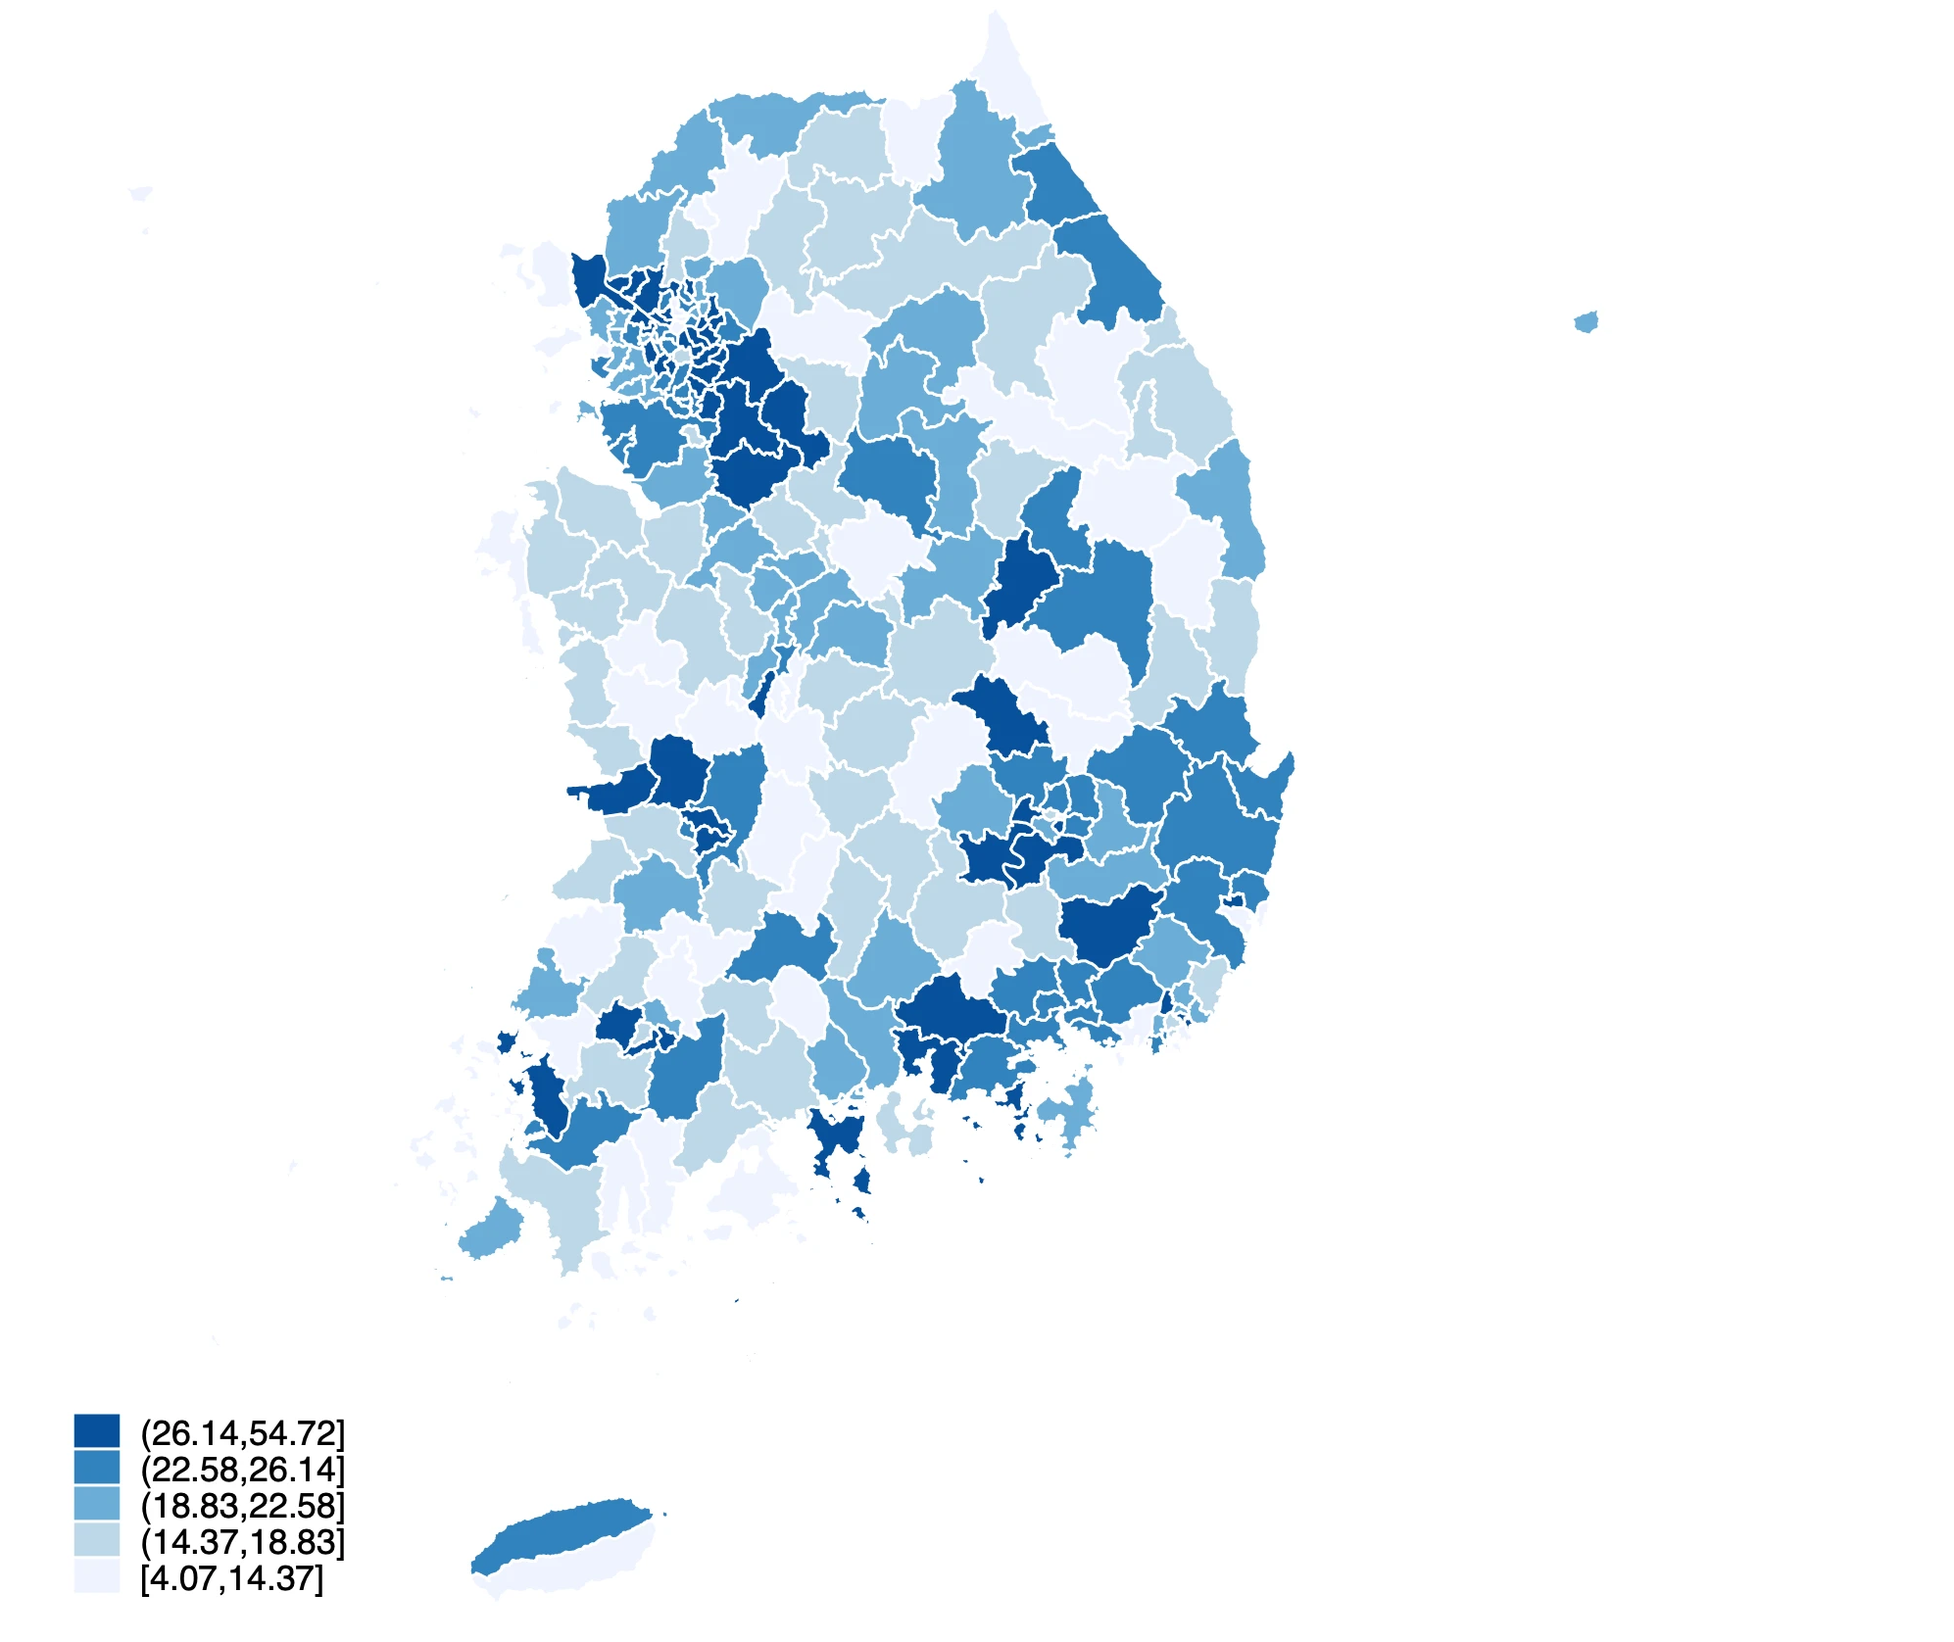
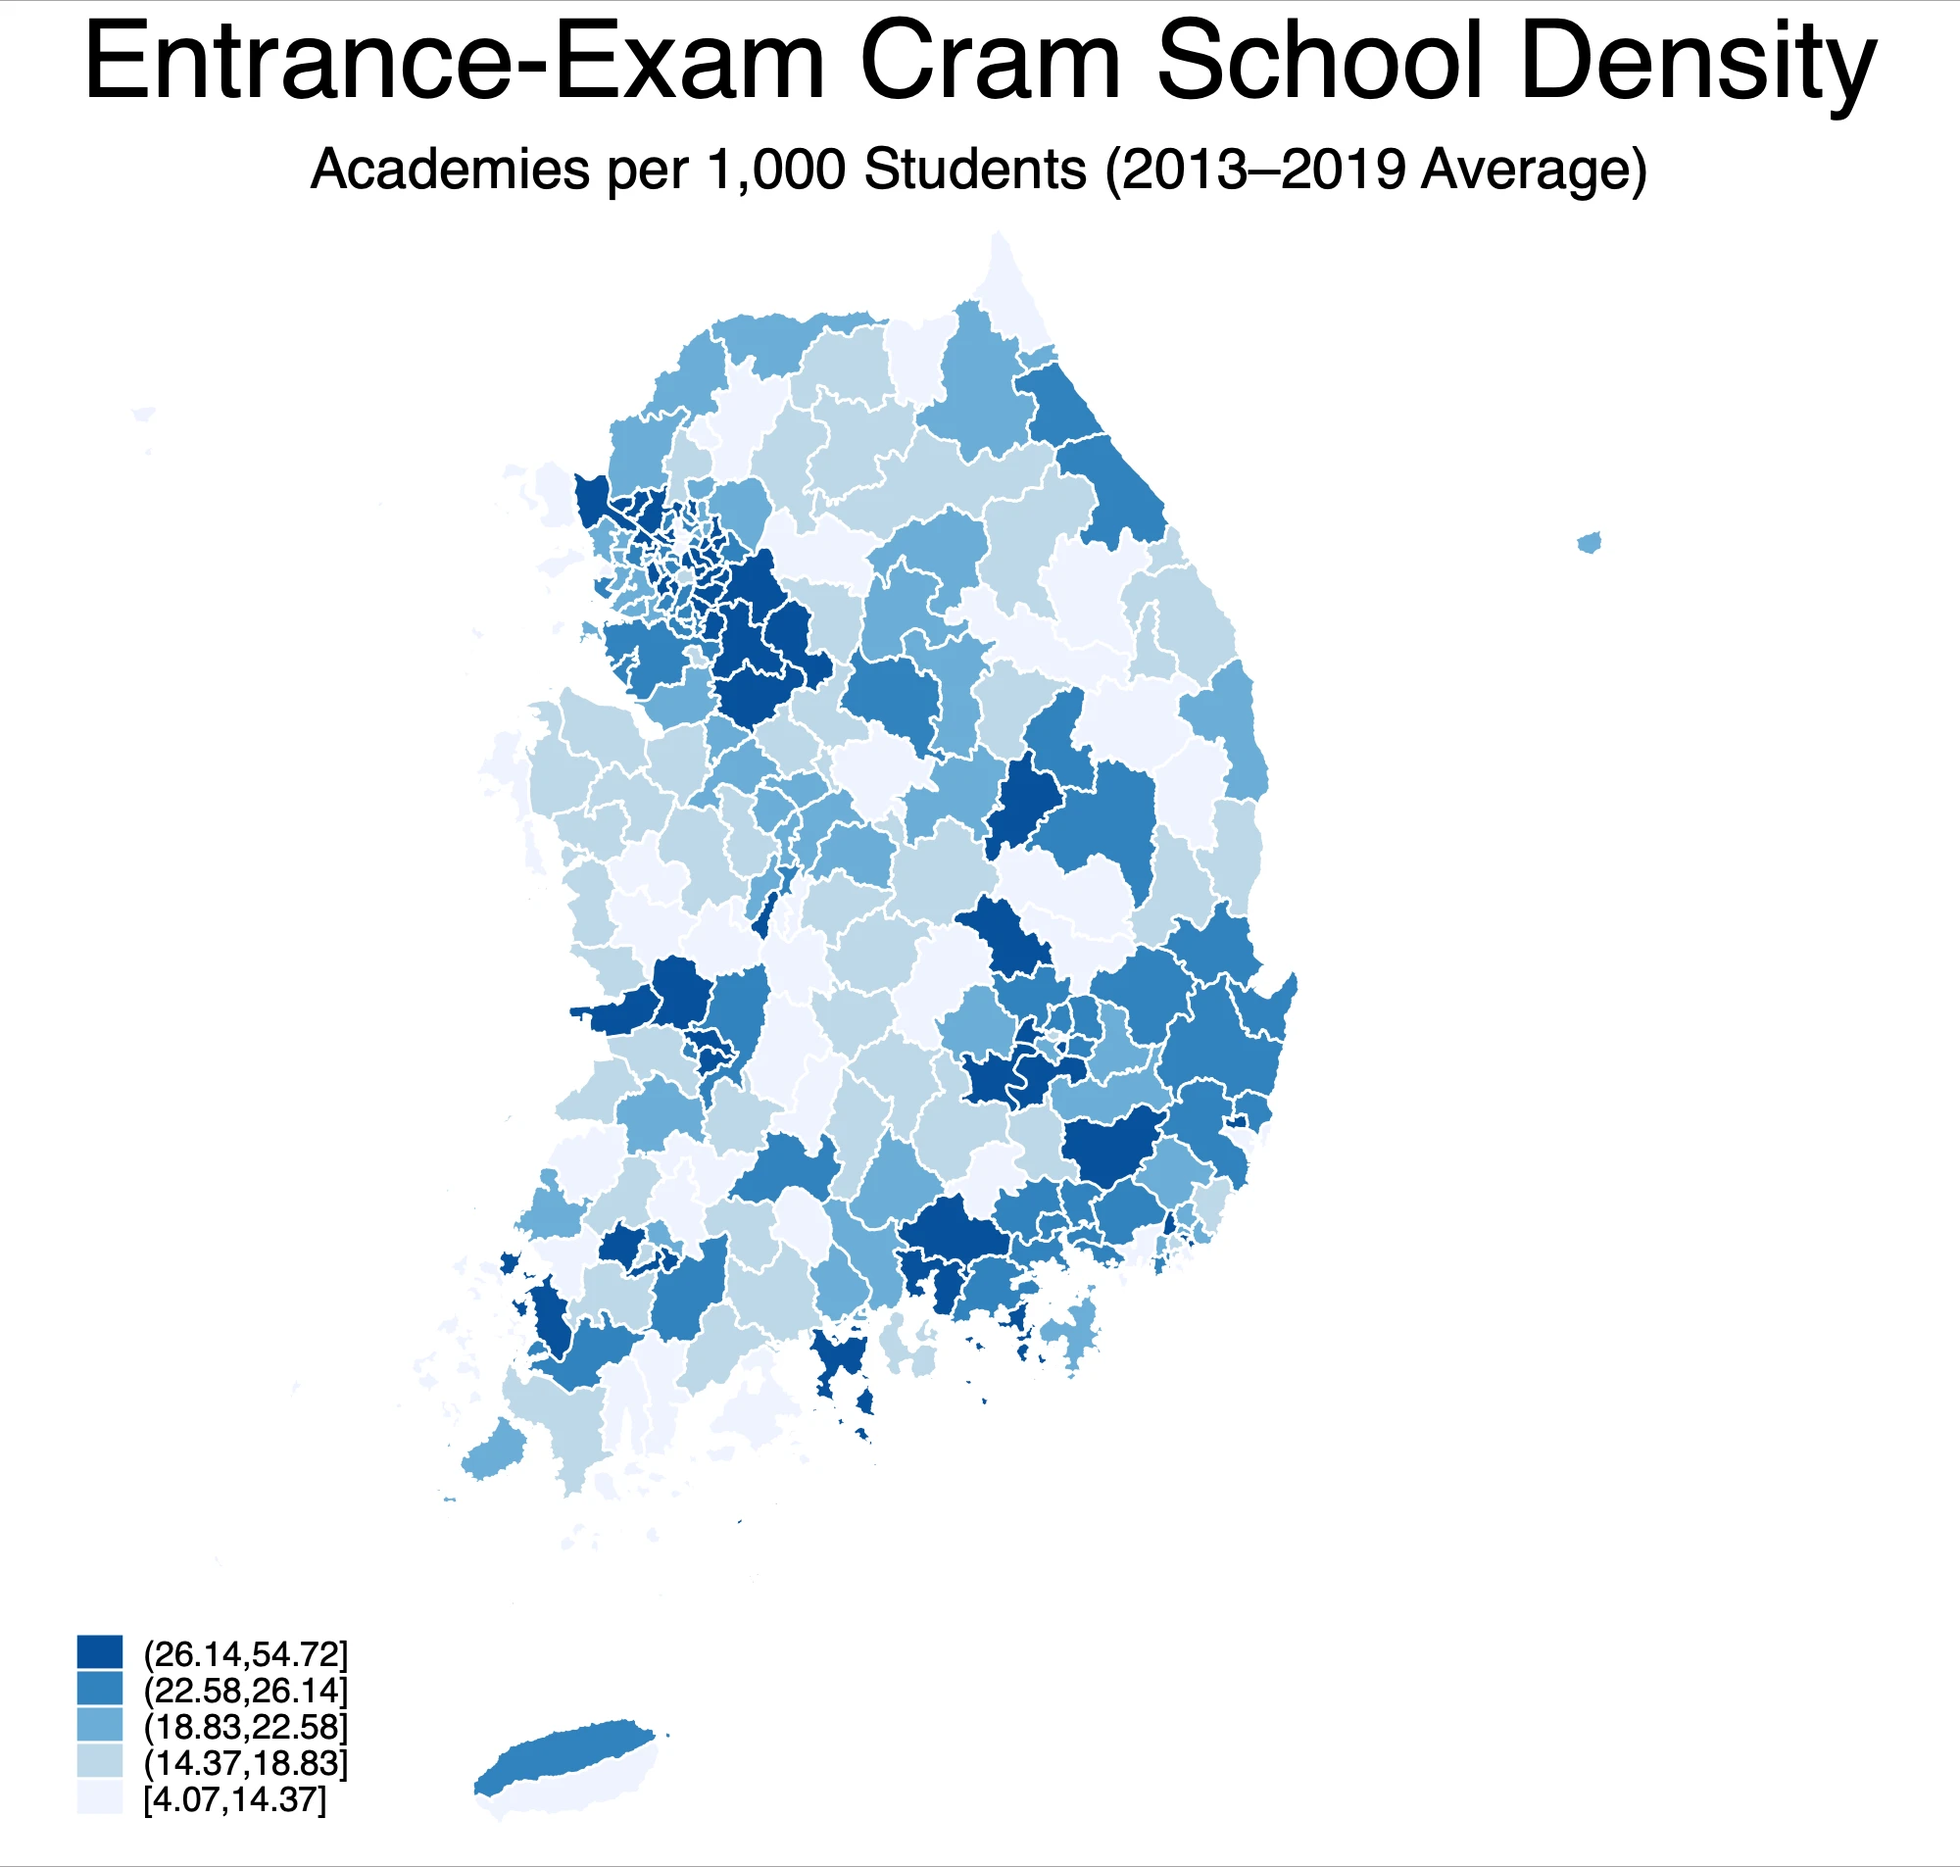
Add Han and Han (2026) reference; crop map titles in LaTeX via trim
Claude-Session: https://claude.ai/code/session_016JGJLRkvoNHs5Budxt5MvT

diff --git a/ADHD.tex b/ADHD.tex
@@ -10,6 +10,8 @@
 \captionsetup[figure]{labelformat=empty,labelsep=none,font=small,justification=centering,singlelinecheck=off}
 % Figure helpers: \figpanel{width}{panel label}{file}{annotation}
 \newcommand{\figpanel}[4]{\begin{minipage}[t]{#1\linewidth}\centering\small #2\\[2pt]\includegraphics[width=\linewidth]{#3}\\[1pt]{\scriptsize #4}\end{minipage}}
+% same as \figpanel but crops the image (trim = left bottom right top, in bp = px at 72 dpi)
+\newcommand{\figpanelt}[5]{\begin{minipage}[t]{#1\linewidth}\centering\small #2\\[2pt]\includegraphics[width=\linewidth,trim=#5,clip]{#3}\\[1pt]{\scriptsize #4}\end{minipage}}
 \newcommand{\fignotes}[2]{\par\smallskip{\footnotesize\raggedright Data source: #1\par Notes: #2\par}}
 \usepackage{booktabs}
 \usepackage{setspace}
@@ -337,8 +339,8 @@ Gibbons, S., and S.~Machin. 2003. ``Valuing English Primary Schools.'' \textit{J
 \bibitem[Greely et~al.(2008)]{greely2008}
 Greely, H., B.~Sahakian, J.~Harris, R.~C. Kessler, M.~Gazzaniga, P.~Campbell, and M.~J. Farah. 2008. ``Towards Responsible Use of Cognitive-Enhancing Drugs by the Healthy.'' \textit{Nature} 456: 702--705.
 
-\bibitem[Han(2025)]{han2025}
-Han, \todo{full reference missing}. 2025.
+\bibitem[Han and Han(2026)]{han2025}
+Han, S., and S.~Han. 2026. ``The Effects of Parental Competitive Pressure on Private Education Investment.'' \textit{KDI Journal of Economic Policy} 48 (2): 63--87.
 
 \bibitem[Health Insurance Review and Assessment Service(2024)]{hira2024}
 Health Insurance Review and Assessment Service. 2024. \todo{full reference missing}.
@@ -563,8 +565,8 @@ Obs. & 22,300,768 & 22,300,768 & \\
 \begin{figure}[!htbp]
 \centering
 \caption{Figure A2. Spatial Distribution of Entrance-Exam Cram School Density}
-\figpanel{0.47}{Korea}{figureA2A}{}\hfill
-\figpanel{0.47}{Within Seoul}{figureA2B}{}
+\figpanelt{0.47}{Korea}{figureA2A}{}{3bp 6bp 3bp 225bp}\hfill
+\figpanelt{0.47}{Within Seoul}{figureA2B}{}{3bp 3bp 3bp 118bp}
 \fignotes{Korean Educational Development Institute (KEDI), South Korea.}{The maps show entrance-exam cram school density by district, measured as the number of entrance-exam cram schools per 1,000 middle and high school students (2013--2019 average). Colors indicate quintiles of the density distribution; quintile cutoffs are computed separately for each map.}
 \end{figure}
 
